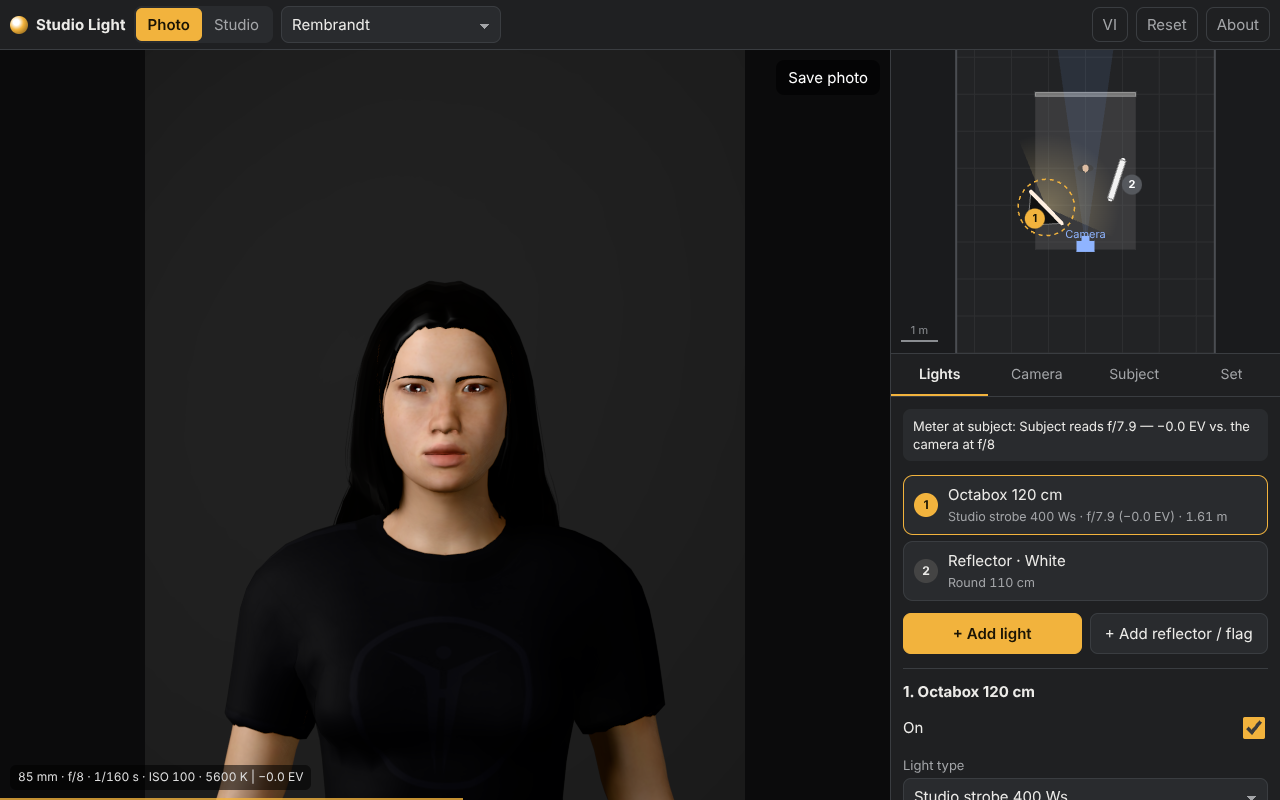
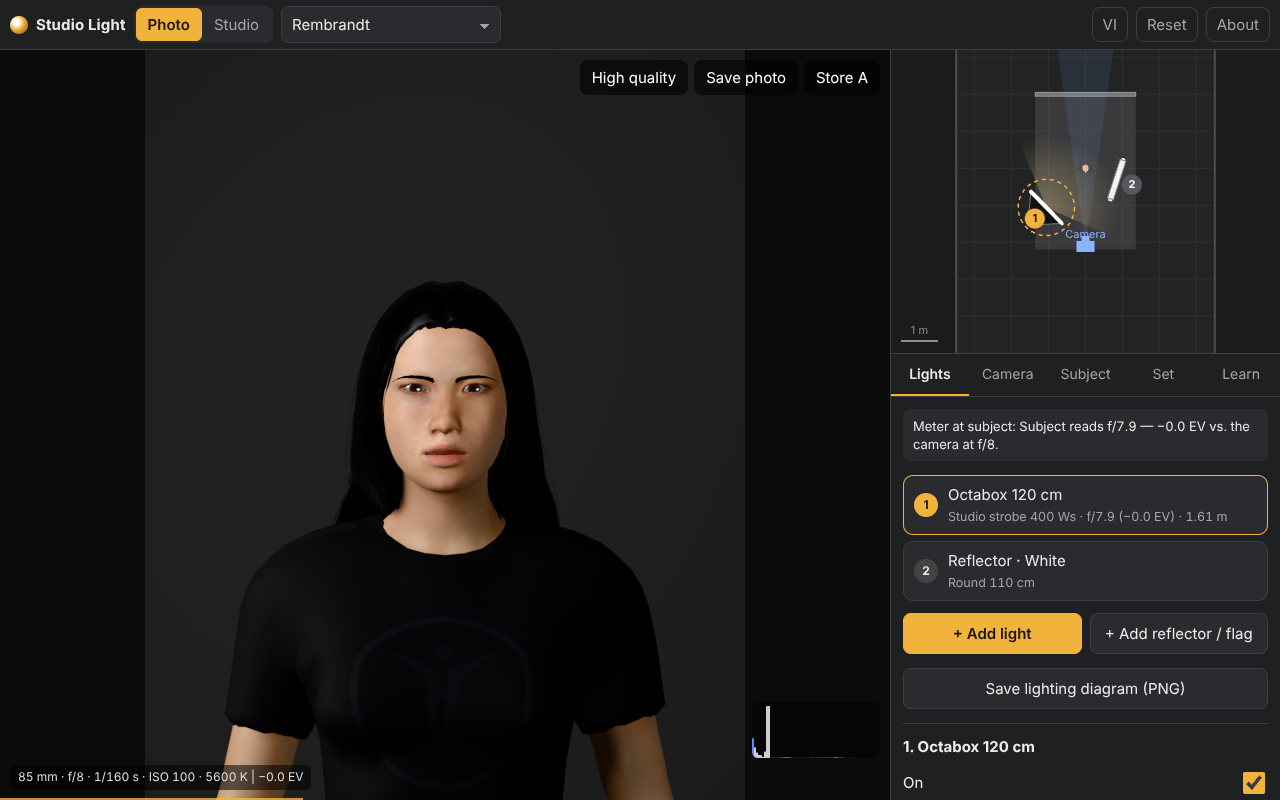
Phase 4: learning tools and lessons
- Learn tab with nine short lessons, each building a set and suggesting
  one thing to change
- Lighting ratio in the meter line, histogram overlay, false colour view
- Store A / Show A comparison and lighting diagram export as PNG
- README and notes updated

Claude-Session: https://claude.ai/code/session_018Vt1sS3owhiU68ttgDemKn

diff --git a/styles.css b/styles.css
@@ -46,7 +46,7 @@ select {
 .stageBtns { position: absolute; right: 10px; top: 10px; left: 10px; display: flex; gap: 6px; flex-wrap: wrap; justify-content: flex-end; }
 #abImg { position: absolute; inset: 0; width: 100%; height: 100%; object-fit: contain; pointer-events: none; }
 .abTag { position: absolute; left: 10px; top: 10px; background: var(--accent); color: var(--accent-ink); font-weight: 700; padding: 2px 9px; border-radius: 6px; }
-#hist { position: absolute; right: 10px; bottom: 10px; width: 128px; height: 56px; background: rgba(0,0,0,.55); border-radius: 6px; pointer-events: none; }
+#hist { position: absolute; right: 10px; bottom: 42px; width: 128px; height: 56px; background: rgba(0,0,0,.55); border-radius: 6px; pointer-events: none; }
 .lesson { border: 1px solid var(--line); border-radius: var(--r); padding: 10px 12px; margin: 0 0 10px; background: var(--panel2); }
 .lesson h3 { margin: 0 0 6px; font-size: 15px; }
 .lesson p { margin: 0 0 8px; font-size: 13.5px; color: var(--dim); -webkit-user-select: text; user-select: text; }
@@ -112,6 +112,8 @@ dialog button { background: var(--accent); color: var(--accent-ink); border: 0; 
   #brandName, #resetBtn, #aboutBtn { display: none; }
   .ghost { padding: 6px 8px; }
   .seg button { padding: 6px 9px; }
+  .save { padding: 6px 9px; font-size: 13px; }
+  .tabs button { font-size: 13px; }
   .preset { flex: 1 1 96px; }
 }
 

diff --git a/src/lessons.js b/src/lessons.js
@@ -8,7 +8,7 @@ export const LESSONS = [
   { id: 'inverse', items: () => [L({ mod: 'softbox', ...P(-40, 0.8), h: 1.75, stops: -4.3 })], set: { backDist: 1.5, walls: 'black', backdrop: 'gray', backdropColor: '#777777' } },
   { id: 'size', items: () => [L({ mod: 'standard', ...P(-40, 1.6), h: 2.1, stops: -4.7 })], set: { walls: 'gray' } },
   { id: 'patterns', items: () => [L({ mod: 'softbox', ...P(-45, 1.4), h: 2.1, stops: -2.7 })], set: { walls: 'gray' } },
-  { id: 'ratio', items: () => [L({ mod: 'softbox', ...P(-40, 1.5), h: 2.0, stops: -2.3 }), L({ mod: 'umb_shoot', ...P(15, 2.2), h: 1.6, stops: -4 })], set: { walls: 'black' } },
+  { id: 'ratio', items: () => [L({ mod: 'softbox', ...P(-40, 1.5), h: 2.0, stops: -2.3 }), L({ mod: 'umb_shoot', ...P(15, 2.2), h: 1.6, stops: -8 / 3 })], set: { walls: 'black' } },
   { id: 'feather', items: () => [L({ mod: 'softbox', ...P(-60, 0.9), h: 1.7, stops: -4 })], set: { walls: 'gray' } },
   { id: 'separation', items: () => [L({ mod: 'octa', ...P(-35, 1.5), h: 2.0, stops: -2 }), L({ mod: 'strip', grid: true, ...P(150, 1.5), h: 1.9, stops: -2.3 }),
     L({ mod: 'standard', x: 0.25, z: -1.2, h: 0.55, stops: -5, feather: 180 })], set: { walls: 'black', backDist: 2.2, backdrop: 'gray', backdropColor: '#777777' } },

diff --git a/README.md b/README.md
@@ -28,12 +28,16 @@ python3 -m http.server 8080
 - **Chụp chất lượng cao** (giai đoạn 3): nút "Chất lượng cao" dựng lại ảnh bằng path tracing — ánh sáng dội thật giữa mọi bề mặt, phản chiếu thật trên kim loại, khúc xạ qua thủy tinh. Đổi bất cứ gì sẽ hủy và quay về xem trực tiếp.
 - **Tự tránh khung hình**: chân đèn lọt vào khung hình thì đèn tự chuyển sang treo trần; đèn hoặc tấm hắt sáng che mất chủ thể thì tự được nâng lên cho tới khi máy ảnh nhìn thấy chủ thể. Tắt được trong tab Máy ảnh.
 - **Chủ thể khác**: bộ cầu tham chiếu (xám 18 %, chrome, trắng, sơn bóng), chai thủy tinh, bình gốm, bình lắc inox.
-- **Đèn**: flash studio 400 Ws, speedlight, LED COB 300 W, LED panel 100 W (tối đa 5 đèn).
-- **Phụ kiện**: chóa tiêu chuẩn, softbox 60×90, octabox 120, stripbox 30×120, dù xuyên, dù phản bạc, beauty dish, snoot, lưới tổ ong.
+- **Đèn**: flash studio 400 Ws, speedlight, LED COB 300 W, LED panel 100 W, ring light, đèn ống LED (tối đa 5 đèn).
+- **Phụ kiện**: chóa tiêu chuẩn, softbox 60×90, octabox 120, stripbox 30×120, dù xuyên, dù phản bạc, beauty dish, snoot, parabolic sâu, Fresnel, barn doors, optical spot kèm gobo (cửa sổ, rèm lá, tán lá), lưới tổ ong.
+- **Gel màu**: CTO/CTB toàn phần và 1/2 (dịch nhiệt độ màu theo mired), 8 gel hiệu ứng.
+- **Xoay đèn tự do** ±180° để feather hoặc chĩa đèn vào phông.
 - **Hắt sáng / cờ**: tròn 80 và 110 cm, V-flat 1×2 m; trắng, bạc, vàng, đen.
-- **Phông**: giấy seamless 8 màu và màu tùy chọn, khoảng cách chủ thể–phông, tường trắng/xám/đen.
-- **Máy ảnh**: tiêu cự, khẩu độ (có độ sâu trường ảnh), tốc độ, ISO, cân bằng trắng, vị trí máy, khung hình, cảnh báo cháy sáng, lưu ảnh JPEG.
-- **Học tập**: 8 bố cục mẫu, sơ đồ nhìn từ trên kéo thả được, đo sáng tại chủ thể cho từng đèn (f-stop và độ lệch EV), cảnh báo tốc độ đồng bộ flash.
+- **Phông**: giấy seamless 9 màu (có xanh chroma) và màu tùy chọn, hoặc cyclorama kín hai tường; khoảng cách chủ thể–phông; tường trắng/xám/đen.
+- **Máy ảnh**: tiêu cự, khẩu độ (có độ sâu trường ảnh), tốc độ, ISO, cân bằng trắng, vị trí máy, khung hình, lưu ảnh JPEG.
+- **Công cụ đo**: đo sáng từng đèn tại chủ thể (f-stop, độ lệch EV), tỉ lệ đèn chính:đèn phụ, histogram, false color theo vùng phơi sáng, cảnh báo cháy sáng, cảnh báo tốc độ đồng bộ flash.
+- **So sánh và ghi chép**: lưu ảnh A rồi bật/tắt để so với bố cục hiện tại; xuất sơ đồ ánh sáng PNG kèm danh sách thiết bị và thông số.
+- **Học**: tab Học có 9 bài ngắn (nghịch đảo bình phương, gắt/mềm, bốn kiểu sáng chân dung, tỉ lệ sáng, feathering, tách nền, nhiệt độ màu và gel, kim loại bóng, negative fill), mỗi bài dựng sẵn bố cục và gợi ý một thứ để thử; ngoài ra có 8 bố cục mẫu.
 
 ## Mô hình ánh sáng / Lighting model
 
